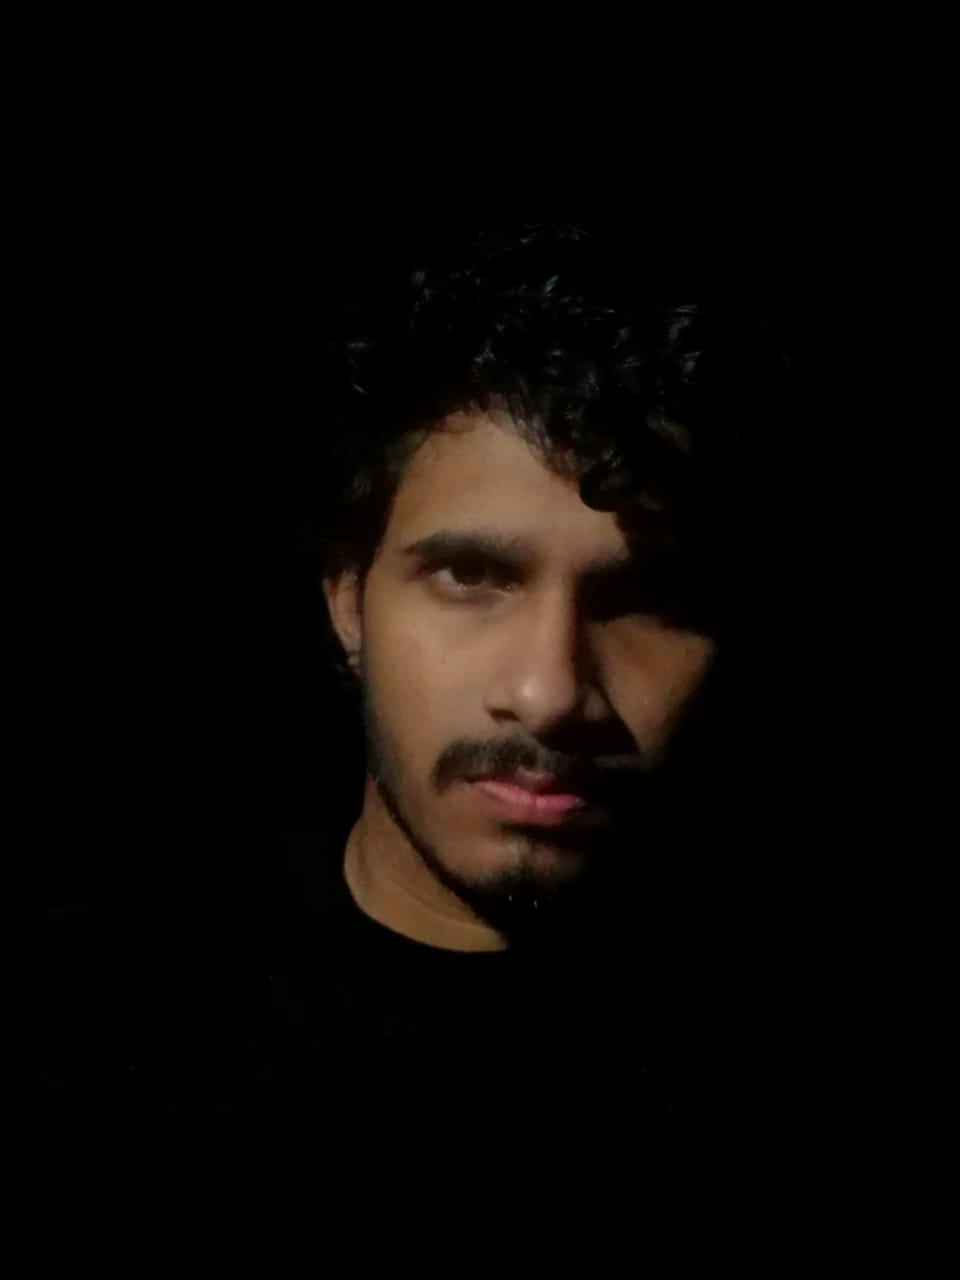
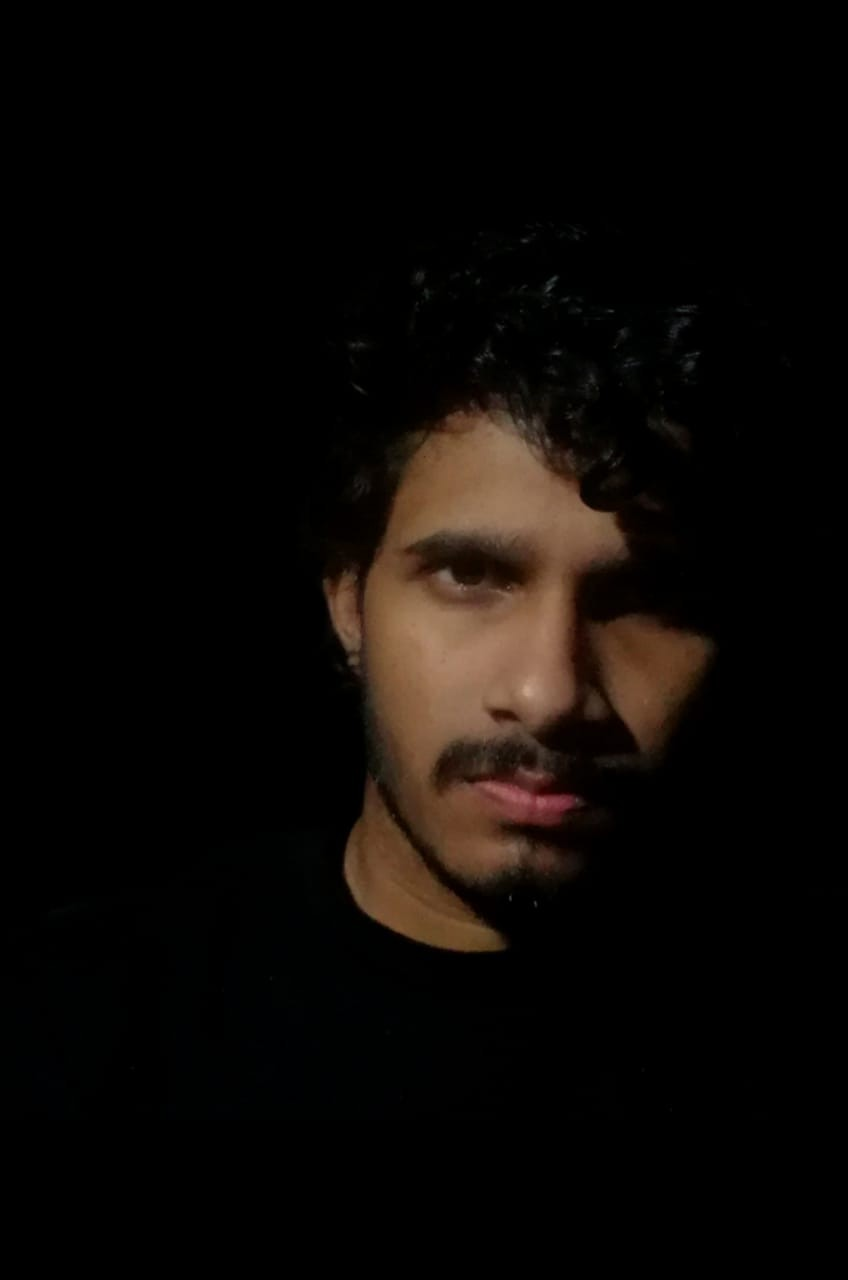
Dark overlay test  update

Changed region(s): [[0.3373, 0.3125, 0.8585, 0.75], [0.7665, 0.3125, 0.7972, 0.3438]]

diff --git a/index.html b/index.html
@@ -114,12 +114,12 @@
         <div class="position-relative row h-100 align-items-center" style="z-index: 2;" data-aos="fade-up"
             data-aos-anchor-placement="bottom-bottom" data-aos-duration="3000">
             <div class=" text-start ps-5">
-                <h1 class="display-3 col-md-auto col-sm-auto col-auto ps-5" style="font-family: 'Audiowide', cursive;">
+                <h1 class="display-3 col-md-auto col-sm-auto col-auto" style="font-family: 'Audiowide', cursive;">
                     <span style="color: white;">Ravindu</span>
                     <span
                         style="color: black; text-shadow: -1px -1px 0 white, 1px -1px 0 white, -1px 1px 0 white, 1px 1px 0 white;">Buddhika</span>
                 </h1>
-                <div class="d-grid gap-2 d-md-block col-md-4 col-sm-4 col-4 ps-5">
+                <div class="d-grid gap-2 d-md-block col-md-4 col-sm-4 col-4">
                     <button class="btn btn-outline-light" type="button">Button</button>
                     <button class="btn btn-light" type="button">Button</button>
                 </div>
